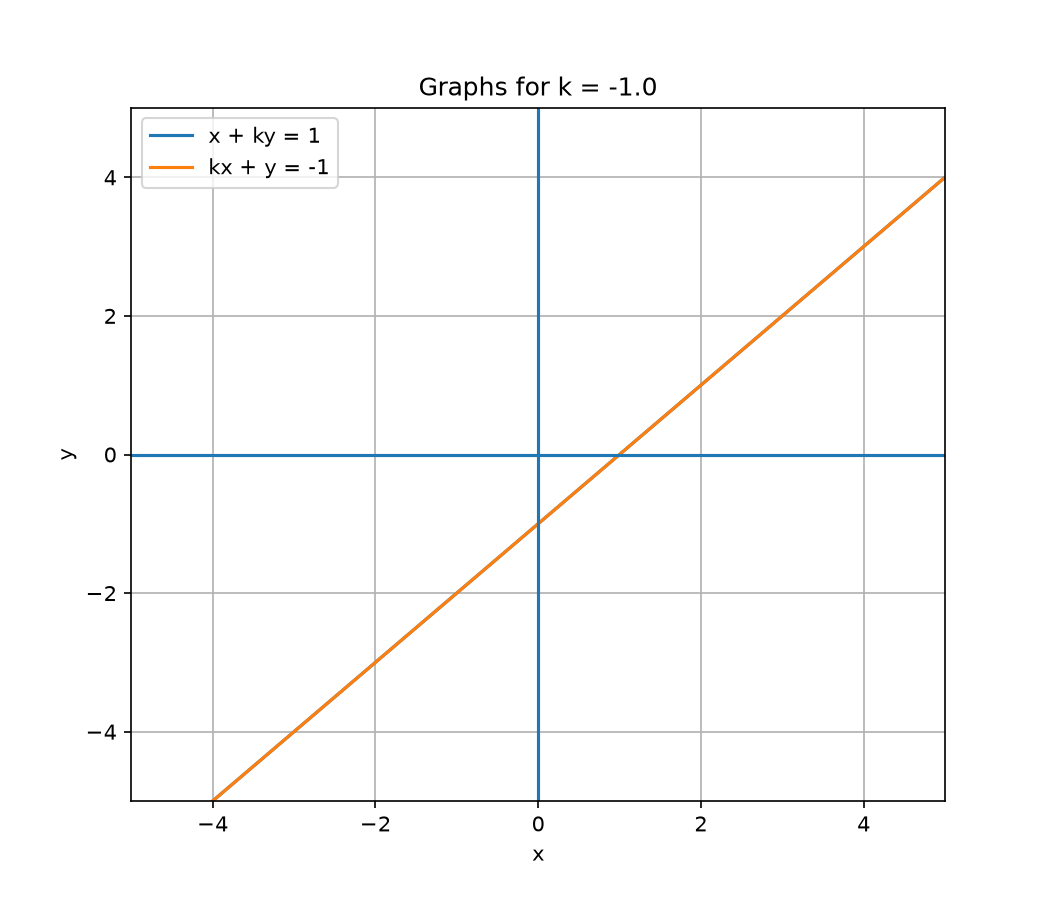
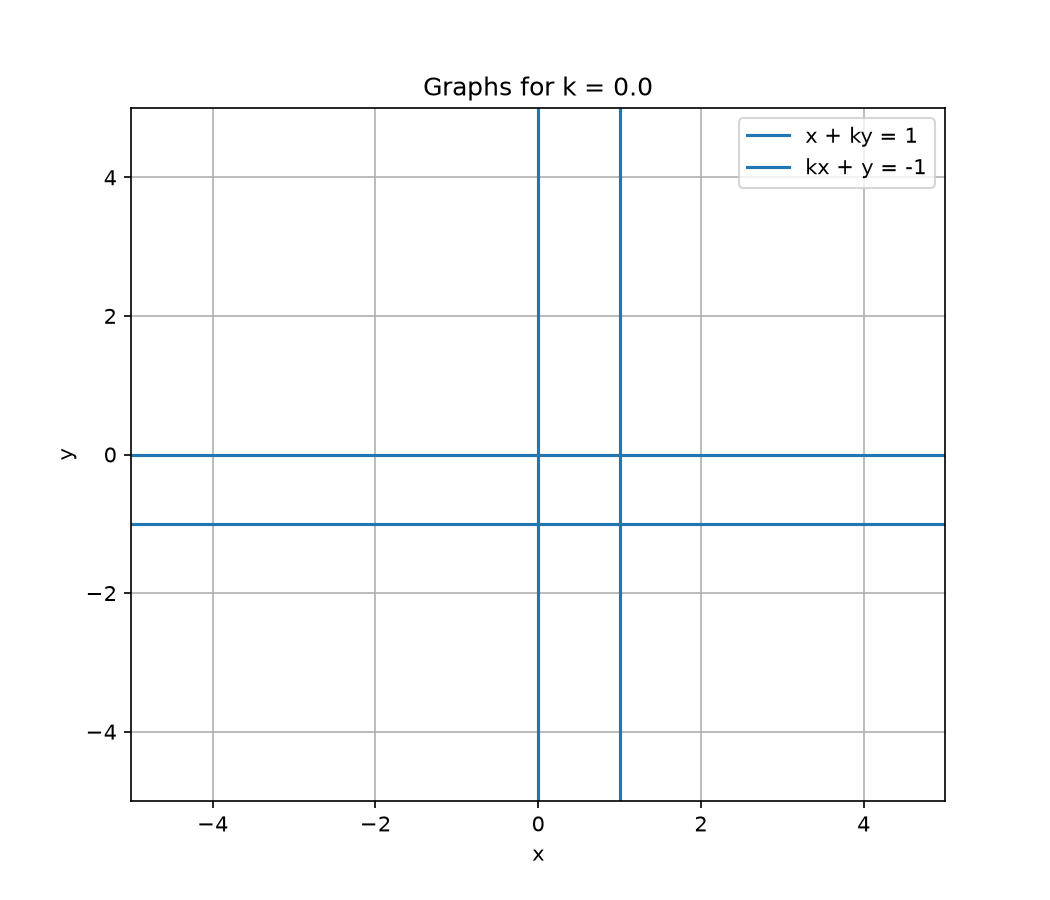
commit

diff --git a/cs/23.py b/cs/23.py
@@ -3,12 +3,22 @@ import numpy as np
 import matplotlib.pyplot as plt
 import subprocess
 
-# Take k from user
-k = float(input("Enter k: "))
+print("For the system:")
+print("       x + ky = 1")
+print("      kx +  y = -1")
+print()
+print("Choose k according to the case you want:")
+print("  k =  0  -> Unique solution")
+print("  k =  1  -> No solution")
+print("  k = -1  -> Infinitely many solutions")
+print("  Any other k -> Unique solution")
+print()
 
-# ------------------------------------------------
-# GENERAL MATRIX
-# ------------------------------------------------
+k = float(input("Enter the value of k: "))
+
+# ----------------------------------------
+# SYMBOLIC ROW TRANSFORMATION
+# ----------------------------------------
 
 k_symbol = sp.symbols('k')
 
@@ -17,67 +27,85 @@ A_general = sp.Matrix([
     [k_symbol, 1, -1]
 ])
 
-print("\nGeneral augmented matrix:")
+print("\nGENERAL AUGMENTED MATRIX")
 sp.pprint(A_general)
 
-# R2 -> R2 - kR1
 R2 = A_general.row(1) - k_symbol * A_general.row(0)
+
 A_reduced_general = sp.Matrix.vstack(
     A_general.row(0),
     R2
 )
 
-print("\nAfter R2 -> R2 - kR1:")
+print("\nAfter row operation:")
+print("R2 -> R2 - kR1")
 sp.pprint(A_reduced_general)
 
-# ------------------------------------------------
-# MATRIX FOR ENTERED k
-# ------------------------------------------------
+# ----------------------------------------
+# NUMERICAL MATRIX
+# ----------------------------------------
 
 A = sp.Matrix([
+    [1, k],
+    [k, 1]
+])
+
+Aug = sp.Matrix([
     [1, k, 1],
     [k, 1, -1]
 ])
 
-print("\nAugmented matrix for k =", k)
+print("FOR k =", k)
+
+print("\nCoefficient matrix A:")
 sp.pprint(A)
 
-print("\nRREF:")
-RREF = A.rref()[0]
+print("\nAugmented matrix [A|b]:")
+sp.pprint(Aug)
+
+# ----------------------------------------
+# RANK
+# ----------------------------------------
+
+rank_A = A.rank()
+rank_Aug = Aug.rank()
+
+print("\nRank of coefficient matrix A =", rank_A)
+print("Rank of augmented matrix [A|b] =", rank_Aug)
+
+# ----------------------------------------
+# RREF
+# ----------------------------------------
+
+print("\nRREF of augmented matrix:")
+RREF = Aug.rref()[0]
 sp.pprint(RREF)
 
-# ------------------------------------------------
-# DETERMINE NATURE OF SOLUTION
-# ------------------------------------------------
+# ----------------------------------------
+# NATURE OF SOLUTION
+# ----------------------------------------
 
-if abs(1 - k**2) > 1e-10:
-    print("\nUnique solution")
+if rank_A == rank_Aug == 2:
+    print("\nNature of solution: UNIQUE SOLUTION")
 
-    solution = sp.solve([
-        sp.Eq(sp.Symbol('x') + k * sp.Symbol('y'), 1),
-        sp.Eq(k * sp.Symbol('x') + sp.Symbol('y'), -1)
-    ], [sp.Symbol('x'), sp.Symbol('y')])
+    solution = sp.linsolve(
+        (A, sp.Matrix([1, -1]))
+    )
 
     print("Solution:")
     print(solution)
 
-elif abs(k - 1) < 1e-10:
-    print("\nNo solution")
+elif rank_A < rank_Aug:
+    print("\nNature of solution: NO SOLUTION")
 
 else:
-    print("\nInfinitely many solutions")
+    print("\nNature of solution: INFINITELY MANY SOLUTIONS")
 
-
-# ------------------------------------------------
+# ----------------------------------------
 # GRAPH
-# ------------------------------------------------
+# ----------------------------------------
 
 x = np.linspace(-5, 5, 500)
-
-# x + ky = 1
-# y = (1-x)/k
-#
-# If k = 0, equation becomes x = 1
 
 plt.figure(figsize=(7, 6))
 
@@ -85,11 +113,10 @@ if abs(k) > 1e-10:
     y1 = (1 - x) / k
     plt.plot(x, y1, label='x + ky = 1')
 else:
+    # k = 0 -> x = 1
     plt.axvline(1, label='x + ky = 1')
 
 # kx + y = -1
-# y = -1-kx
-
 y2 = -1 - k * x
 plt.plot(x, y2, label='kx + y = -1')
 
@@ -99,15 +126,17 @@ plt.axvline(0)
 plt.xlim(-5, 5)
 plt.ylim(-5, 5)
 
-plt.xlabel('x')
-plt.ylabel('y')
-plt.title(f'Graphs for k = {k}')
+plt.xlabel("x")
+plt.ylabel("y")
+plt.title(f"Graphs for k = {k}")
+
 plt.grid()
 plt.legend()
 
-filename = 'matrix_graph.png'
+filename = "matrix_graph.png"
 plt.savefig(filename, dpi=150)
 plt.close()
 
+
 # Open graph directly in Termux
-subprocess.run(['termux-open', filename])
+subprocess.run(["termux-open", filename])

diff --git a/cs/23a.py b/cs/23a.py
@@ -1,0 +1,124 @@
+import sympy as sp
+import numpy as np
+import matplotlib.pyplot as plt
+import subprocess
+
+print("System:")
+print("       x + ky = 1")
+print("      kx +  y = -1")
+print()
+print("Choose k:")
+print("  k =  0  -> Unique solution")
+print("  k =  1  -> No solution")
+print("  k = -1  -> Infinitely many solutions")
+print("  Any other k -> Unique solution")
+print()
+
+k = float(input("Enter the value of k: "))
+
+# ========================================
+# AUGMENTED MATRIX
+# ========================================
+
+A = sp.Matrix([
+    [1, k],
+    [k, 1]
+])
+
+b = sp.Matrix([
+    [1],
+    [-1]
+])
+
+Aug = A.row_join(b)
+
+
+print("AUGMENTED MATRIX")
+
+sp.pprint(Aug)
+
+# ========================================
+# ROW REDUCTION USING BUILT-IN RREF
+# ========================================
+
+RREF, pivots = Aug.rref()
+
+print("ROW REDUCED ECHELON FORM (RREF)")
+print("========================================")
+sp.pprint(RREF)
+
+print("\nPivot columns:", pivots)
+
+# ========================================
+# RANK USING BUILT-IN FUNCTION
+# ========================================
+
+rank_A = A.rank()
+rank_Aug = Aug.rank()
+
+print("\n========================================")
+print("RANK")
+print("========================================")
+
+print("Rank(A)       =", rank_A)
+print("Rank([A | b]) =", rank_Aug)
+
+# ========================================
+# NATURE OF SOLUTION
+# ========================================
+
+print("\n========================================")
+print("NATURE OF SOLUTION")
+print("========================================")
+
+if rank_A == rank_Aug == 2:
+    print("Unique solution")
+
+    solution = A.inv() * b
+    print("\nx =", solution[0])
+    print("y =", solution[1])
+
+elif rank_A < rank_Aug:
+    print("No solution")
+
+else:
+    print("Infinitely many solutions")
+
+# ========================================
+# GRAPH
+# ========================================
+
+x = np.linspace(-5, 5, 500)
+
+plt.figure(figsize=(7, 6))
+
+# x + ky = 1
+if abs(k) < 1e-10:
+    plt.axvline(1, label="x + ky = 1")
+else:
+    y1 = (1 - x) / k
+    plt.plot(x, y1, label="x + ky = 1")
+
+# kx + y = -1
+y2 = -1 - k * x
+plt.plot(x, y2, label="kx + y = -1")
+
+plt.axhline(0)
+plt.axvline(0)
+
+plt.xlabel("x")
+plt.ylabel("y")
+plt.title(f"Graphs for k = {k}")
+
+plt.xlim(-5, 5)
+plt.ylim(-5, 5)
+
+plt.grid()
+plt.legend()
+
+filename = "matrix_graph.png"
+plt.savefig(filename, dpi=150)
+plt.close()
+
+
+subprocess.run(["termux-open", filename])

diff --git a/cs/24.c b/cs/24.c
@@ -1,0 +1,64 @@
+#include <stdio.h>
+
+int main()
+{
+    int kmap[2][4] = {
+        {0, 0, 1, 0},
+        {0, 1, 1, 1}
+    };
+
+    int a, b, c, col, X;
+
+    /* ---------- K-MAP ---------- */
+
+    printf("K-MAP\n\n");
+    printf("       00  01  11  10\n");
+    printf("a=0    %d   %d   %d   %d\n",
+           kmap[0][0], kmap[0][1], kmap[0][2], kmap[0][3]);
+
+    printf("a=1    %d   %d   %d   %d\n",
+           kmap[1][0], kmap[1][1], kmap[1][2], kmap[1][3]);
+
+    /* ---------- K-MAP GROUPS ---------- */
+
+    printf("\nK-map groups:\n");
+
+    printf("m3, m7 -> bc\n");
+    printf("m5, m7 -> ac\n");
+    printf("m6, m7 -> ab\n");
+
+    printf("\nExpression obtained using K-map:\n");
+    printf("X = ab + ac + bc\n");
+
+    /* ---------- TRUTH TABLE ---------- */
+
+    printf("\nTRUTH TABLE\n");
+    printf("a b c | X\n");
+    printf("--------------\n");
+
+    for (a = 0; a <= 1; a++)
+    {
+        for (b = 0; b <= 1; b++)
+        {
+            for (c = 0; c <= 1; c++)
+            {
+                /* Find corresponding K-map column */
+                if (b == 0 && c == 0)
+                    col = 0;
+                else if (b == 0 && c == 1)
+                    col = 1;
+                else if (b == 1 && c == 1)
+                    col = 2;
+                else
+                    col = 3;
+
+                /* Get output from K-map */
+                X = kmap[a][col];
+
+                printf("%d %d %d | %d\n", a, b, c, X);
+            }
+        }
+    }
+
+    return 0;
+}

diff --git a/cs/24.py b/cs/24.py
@@ -1,0 +1,24 @@
+#include <stdio.h>
+
+int main()
+{
+    int a, b, c, X;
+
+    printf("a b c | X\n");
+    printf("--------------\n");
+
+    for (a = 0; a <= 1; a++)
+    {
+        for (b = 0; b <= 1; b++)
+        {
+            for (c = 0; c <= 1; c++)
+            {
+                X = (a && b) || (a && c) || (b && c);
+
+                printf("%d %d %d | %d\n", a, b, c, X);
+            }
+        }
+    }
+
+    return 0;
+}
